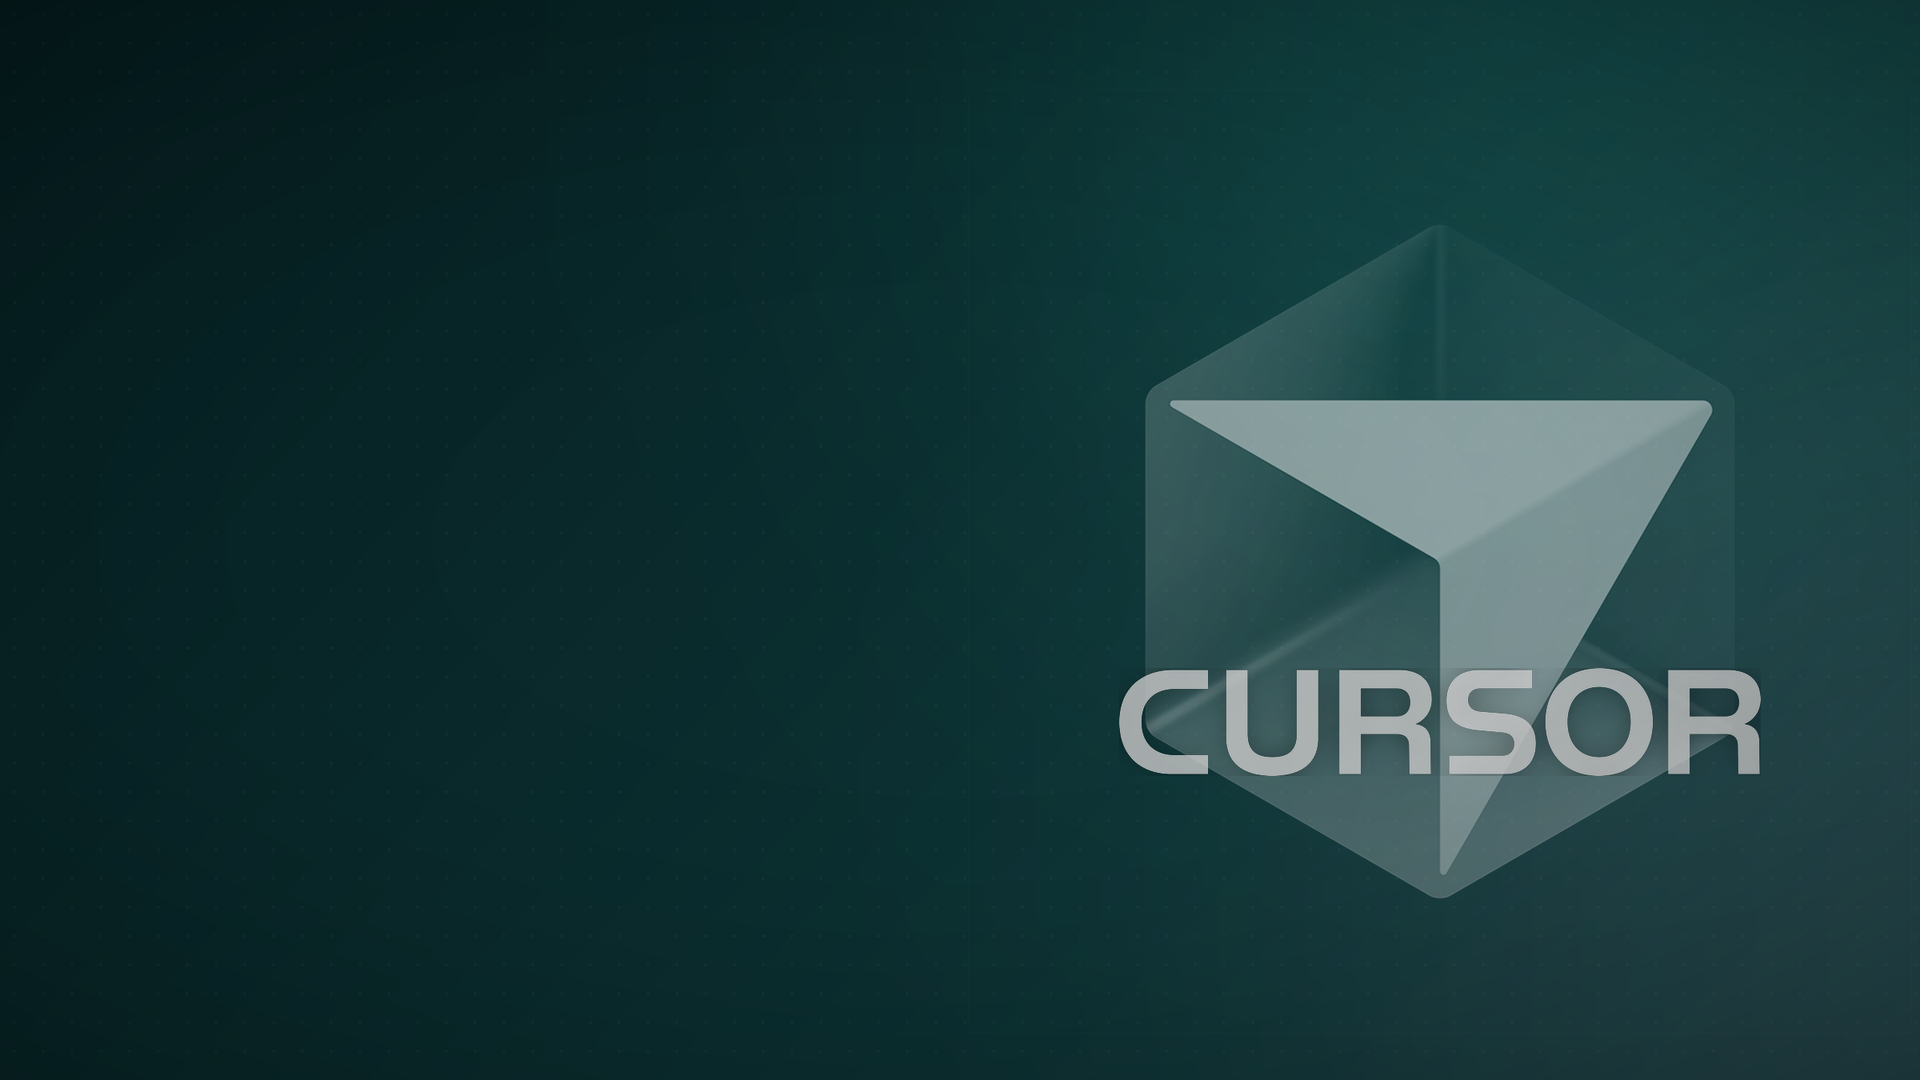
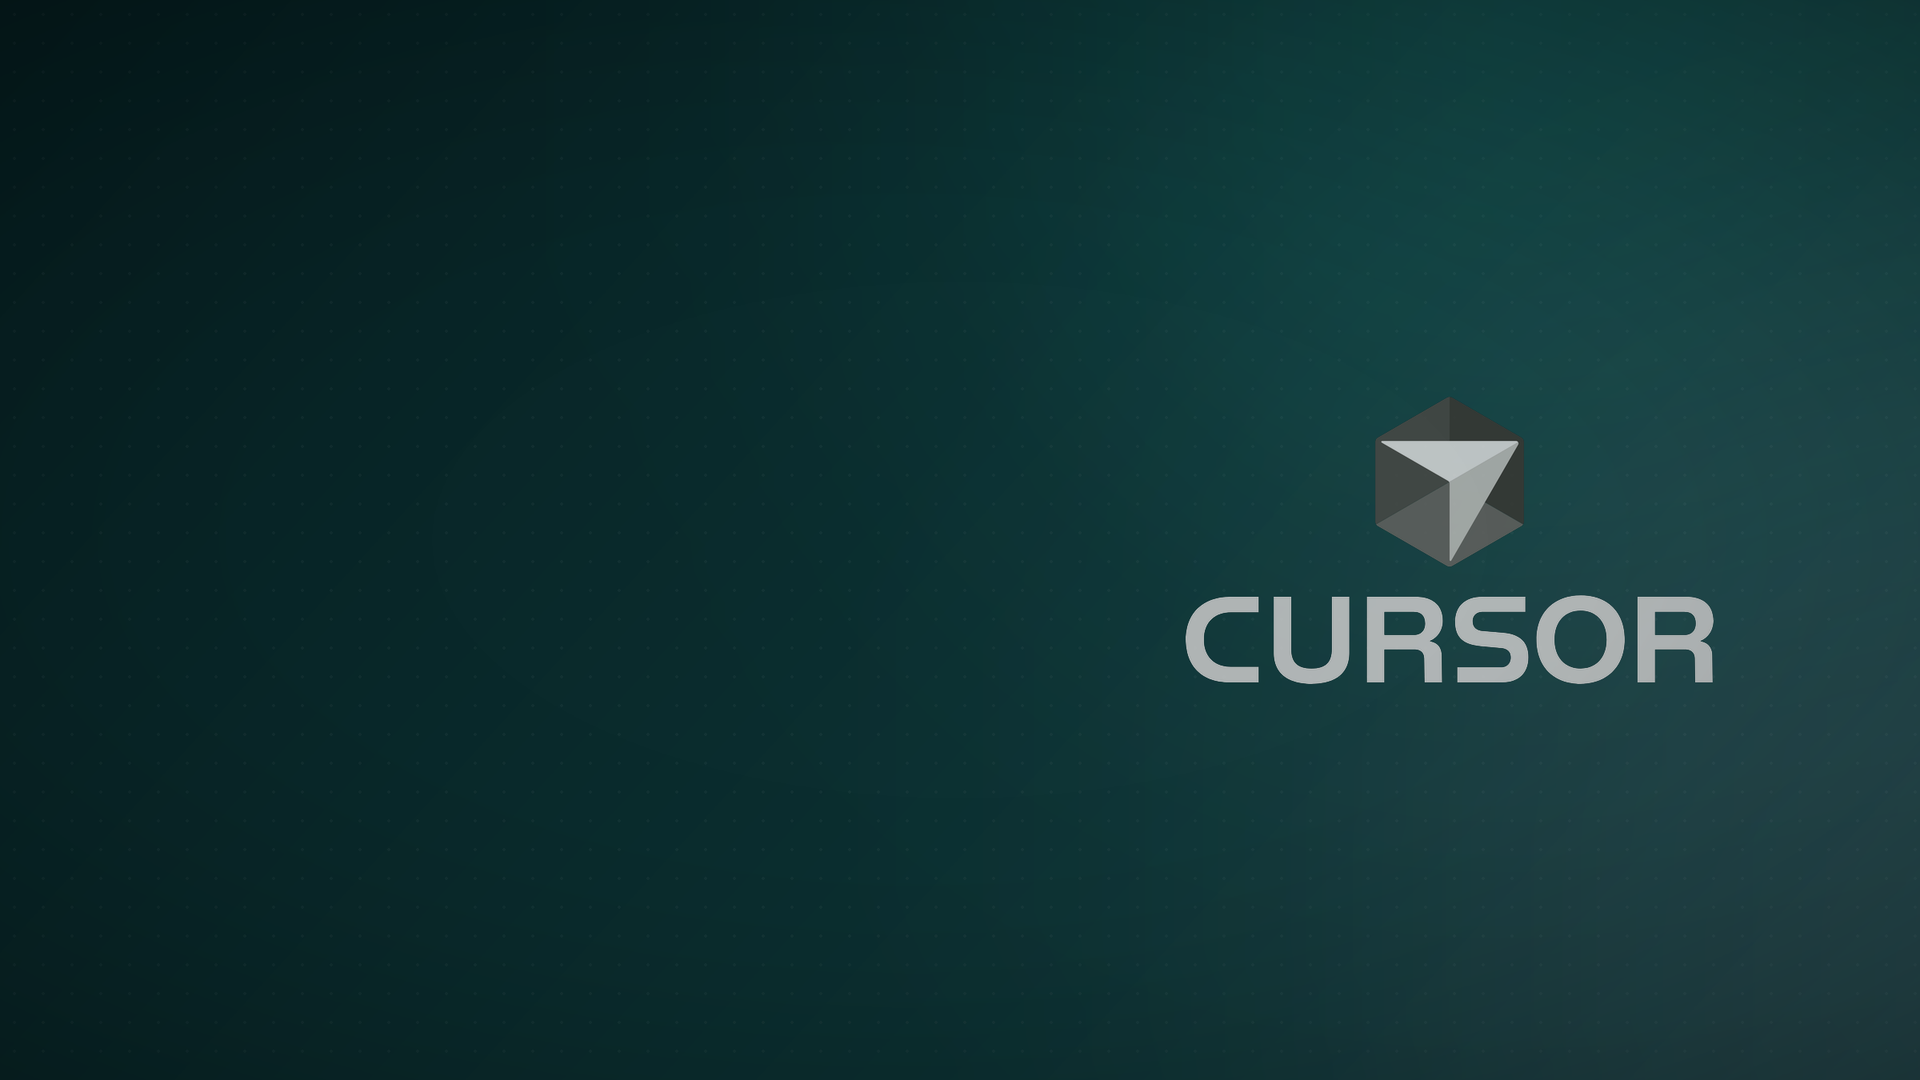
feat(case-study): use canonical Cursor vertical lockup in hero, smaller
Replace the custom cube+etched-wordmark composite with the brand kit's
2.5D vertical lockup (cube above wordmark), rasterized transparent and
seated centre-right at roughly a quarter of the canvas width.

Changed region(s): [[0.5625, 0.2444, 0.9375, 0.825]]

diff --git a/docs/case-studies.md b/docs/case-studies.md
@@ -431,12 +431,13 @@ active-link underline INSIDE the link box — the links row is
   (`cursor-lockup-white.svg`, the kit's `_DARK` = off-white #edecec variant)
   at `client_logo_height: 30px`.
 - **Hero background (`hero-bg-cube.png`) is a generated composite**, not a
-  photo: the brand-kit 3D cube icon (greyscaled, dimmed, screen-blended) with
-  the CURSOR wordmark etched across its lower face over a soft dark
-  under-glow, on a pine gradient + teal/pink glows + dot grid (PIL-composited
-  from the user's `~/Downloads/cursor-brand-assets/`). Composition sits
-  centre-right so the full wordmark clears the frosted title card at 1440.
-  Swap the file for a designer piece or an approved Cursor IDE still anytime.
+  photo: the brand-kit VERTICAL lockup (`LOCKUP_VERTICAL_25D_DARK.svg`, the
+  2.5D shaded cube above the CURSOR wordmark; rasterized transparent via
+  headless Chrome), seated centre-right at ~27% canvas width on a pine
+  gradient + teal/pink glows + dot grid (PIL-composited from the user's
+  `~/Downloads/cursor-brand-assets/`). Positioned so it clears the frosted
+  title card at 1440. Swap the file for a designer piece or an approved
+  Cursor IDE still anytime.
 - **Stat-strip values use `&nbsp;`** inside multi-word tokens
   (`~8&nbsp;min → ~2&nbsp;min`) so narrow columns wrap at the arrow, never
   mid-token.

diff --git a/content/case-studies/cursor.md b/content/case-studies/cursor.md
@@ -12,7 +12,7 @@ client_logo: /img/case-studies/cursor/cursor-lockup-white.svg
 client_logo_height: 30px
 hero_title: "<span class='text-gradient'>75% Faster Plans, 2x Daily Applies</span>: How Cursor Rebuilt Its Terraform Workflow with Masterpoint"
 hero_aside_image: /img/case-studies/cursor/hero-bg-cube.png
-hero_aside_alt: "Cursor's three-dimensional cube mark with the CURSOR wordmark, ghosted on a deep pine gradient"
+hero_aside_alt: "Cursor's vertical lockup — the three-dimensional cube mark above the CURSOR wordmark — on a deep pine gradient"
 
 # At-a-glance stat strip (appears under hero)
 stat_bar: